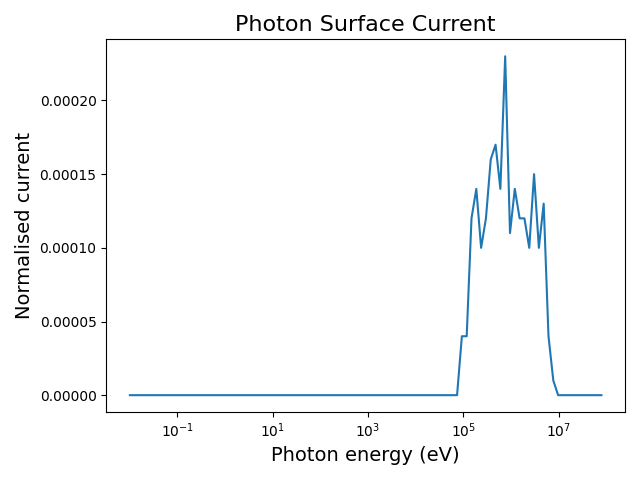
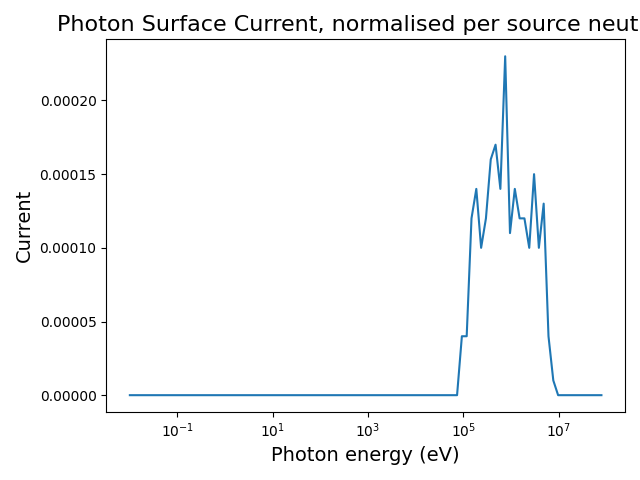
Added some minor functionality
Now reads neutrons per year correctly,
some print statements added

Changed region(s): [[0.0938, 0.0312, 1.0, 0.0625], [0.0, 0.2812, 0.0625, 0.6562]]

diff --git a/Code/workspace/src/magmirrorresults.py b/Code/workspace/src/magmirrorresults.py
@@ -39,17 +39,22 @@ def plot_surface_current(particle="neutron", normalise = True):
         if normalise == True:
             current = resultsdf["mean"]
         else:
-            with open('n_per_year_per_slice.txt', 'r') as input:
+            with open(os.path.join(results_dir, 'n_per_year_per_slice.txt'), 'r') as input:
                 n_per_year_per_slice = input.read()
-            current = resultsdf["mean"]*n_per_year_per_slice
+            current = resultsdf["mean"]*float(n_per_year_per_slice)
         
         plt.clf() # clears any existing plot
         plt.semilogx(lowenergies, current)
-        plt.title(f"{particle_cap} Surface Current", fontsize = 16)
+        if normalise == True:
+            normal_str = "normalised per source neutron"
+        else:
+            normal_str = "per year in given reaction slice"
+        plt.title(f"{particle_cap} Surface Current, {normal_str}", fontsize = 16)
         plt.xlabel(f"{particle_cap} energy (eV)", fontsize = 14)
-        plt.ylabel("Normalised current", fontsize = 14)
+        plt.ylabel("Current", fontsize = 14)
         plt.tight_layout()
         plt.savefig(os.path.join(results_dir, f"{particle}_surface_current.png"))
+        print(f"Saved {particle} leakage graph to {particle}_surface_current.png")
     except Exception as e:
         print(f"No surface current tally for {particle}: {e}")
 
@@ -81,9 +86,9 @@ def mesh_tally_to_vtk(particle="neutron", normalise = True):
         if normalise == True:
             flux = mesh_tally_results.get_values(scores=['flux'], value='mean')
         else:
-            with open('n_per_year_per_slice.txt', 'r') as input:
+            with open(os.path.join(results_dir, 'n_per_year_per_slice.txt'), 'r') as input:
                 n_per_year_per_slice = input.read()
-            flux = mesh_tally_results.get_values(scores=['flux'], value='mean')*n_per_year_per_slice
+            flux = mesh_tally_results.get_values(scores=['flux'], value='mean')*float(n_per_year_per_slice)
         vtk_filename = os.path.join(results_dir, f"{particle}_flux.vtk")
         mesh.write_data_to_vtk(filename=vtk_filename, datasets={"mean": flux})
         print(f"Exported {particle} flux to {vtk_filename}")
@@ -95,4 +100,4 @@ mesh_tally_to_vtk("neutron")
 mesh_tally_to_vtk("photon")
 
 plot_surface_current("photon")
-plot_surface_current("neutron")
+plot_surface_current("neutron", normalise=False)
